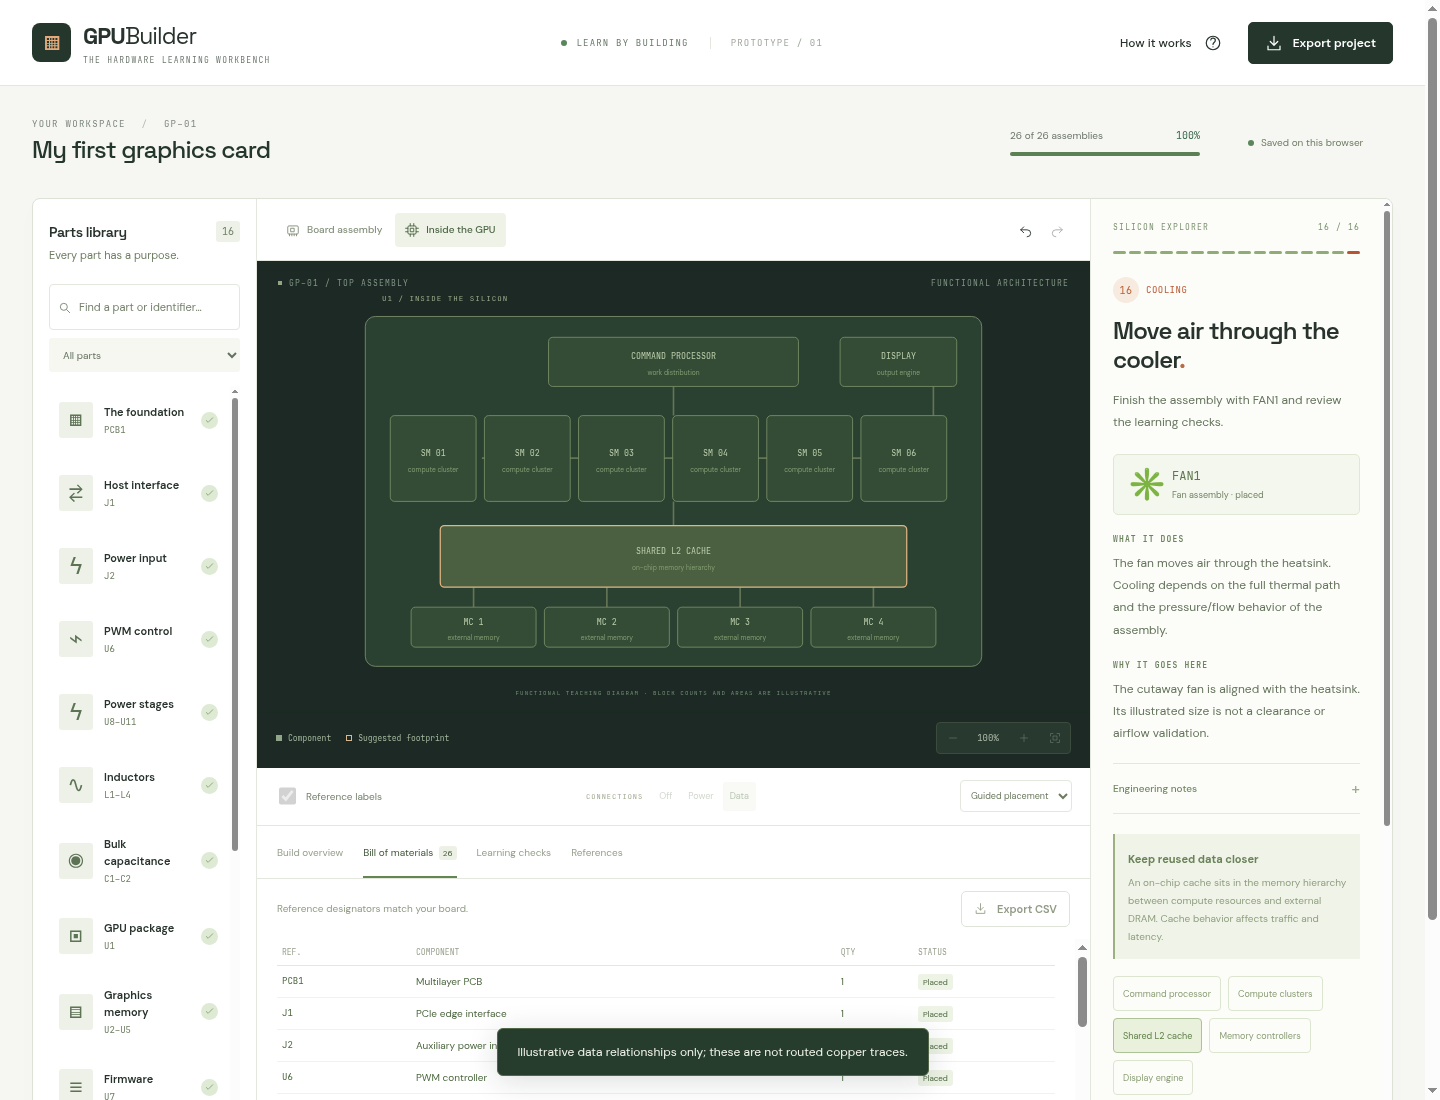
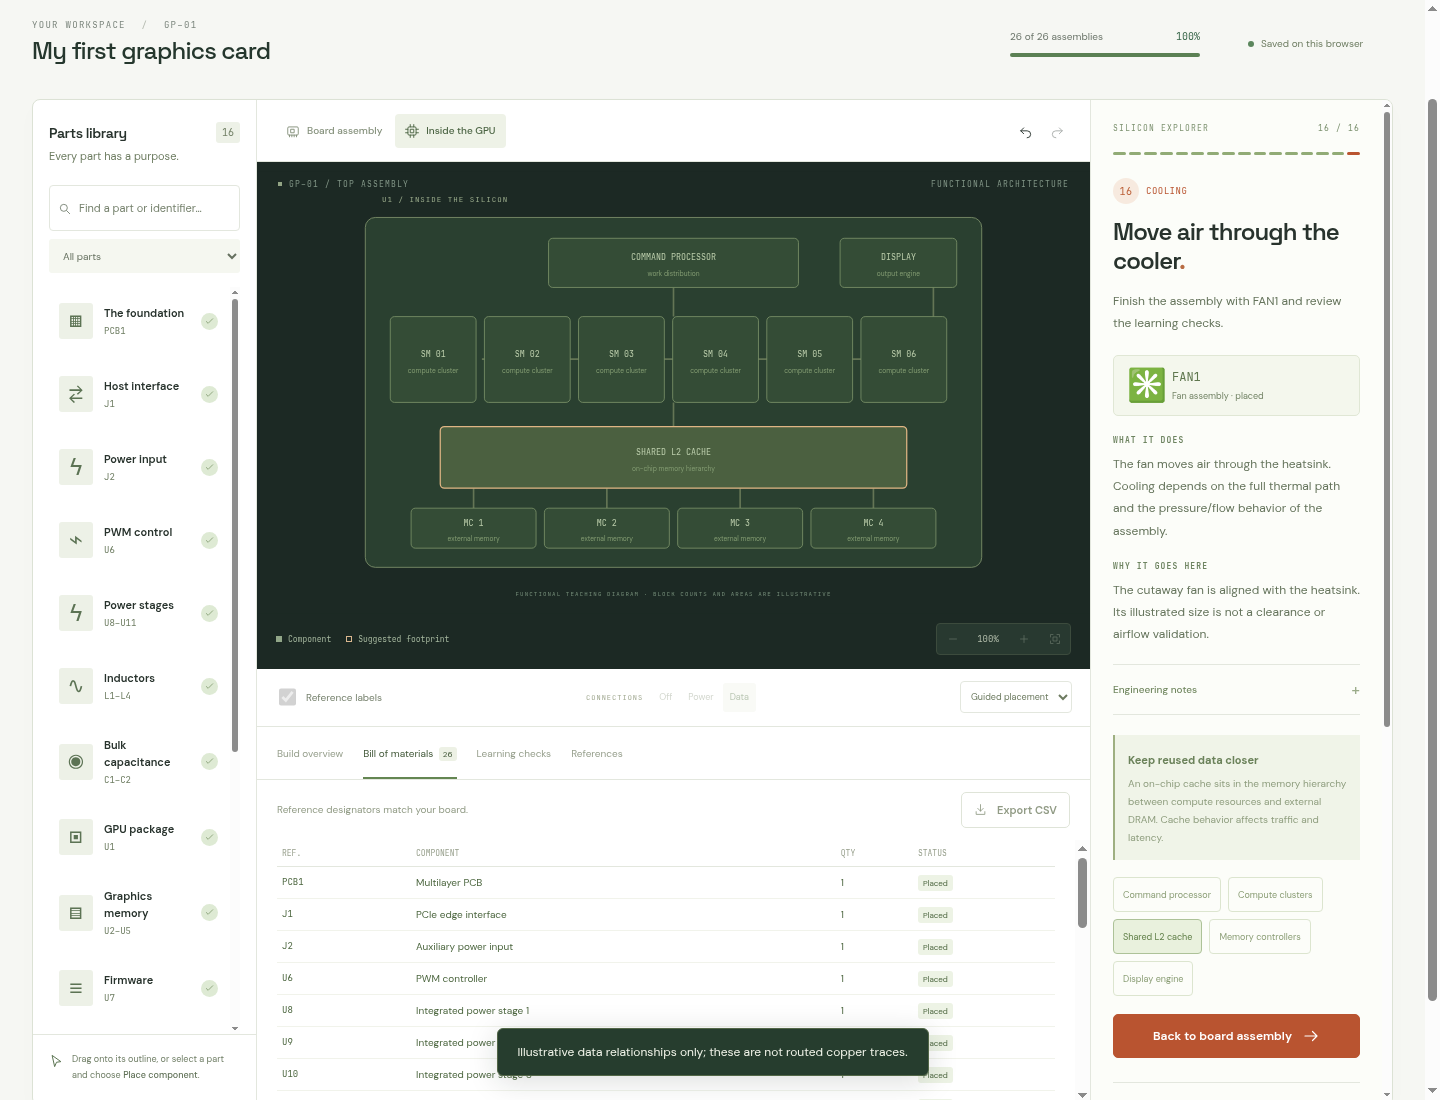
Record the compact phone verification
Keep the measured phone budgets, the pinned-board capture and the refreshed QA images with the layout change.

🤖 Generated with Codebuff

diff --git a/Testing.md b/Testing.md
@@ -38,6 +38,16 @@ node tests/browser-files.mjs
 
 Use an isolated browser profile: the workflow suite clears that profile's GPU Builder localStorage. The scripts target localhost:4180 and never write to an external website.
 
+## Mobile compaction — October 24, 2026
+
+`app/tests/layout-mobile.mjs` pins the phone layout budgets at 390 × 844 with the empty board mounted, on the CDP session at port 9228:
+
+```bash
+node tests/layout-mobile.mjs
+```
+
+Measured after the change: header 58 px (budget ≤ 60), project bar 83 px (≤ 84), full page 2,676 px (≤ 2,700, down from 2,872), no horizontal overflow, smallest tracked touch target 44 px. After scrolling 900 px the board canvas sits at 0 px from the top of the viewport, so the guide and parts list scroll beneath a pinned board. The recorded `browser-checks.mjs` sweep still passes at 320, 360, 390, 430, 768, 820, 1024, 1280 and 1440 px with no browser exceptions or failed resources. Captures: `QA/phone-compact.png` and `QA/phone-board-pinned.png`.
+
 ## Limits
 
 Chromium viewport emulation is not physical-device or native Safari verification. No electrical, thermal or manufacturing correctness is asserted by the learning checks. There is no server-side project storage; use exported JSON for backups or transferring devices. The SQLite/contact/investor behavior of the unrelated Code Zen Studios site is outside this project.

diff --git a/Change Log.md b/Change Log.md
@@ -1,5 +1,9 @@
 # Change log
 
+## Mobile layout — October 24, 2026
+
+Compacted the phone workbench: a 58 px header, a single-row project bar, tighter dock and panel padding, and a board canvas that stays pinned to the top of the viewport while the lesson and parts library scroll beneath it. Page height at 390 px dropped from 2,872 to 2,676 px. Added `app/tests/layout-mobile.mjs` to hold those budgets, and recorded the measurements in [[Testing]].
+
 ## 0.1.0 — October 18, 2026
 
 Planned the interface before implementation. Created the separate GPU Builder Obsidian vault at the user's request and saved the project context for efficient continuation.
